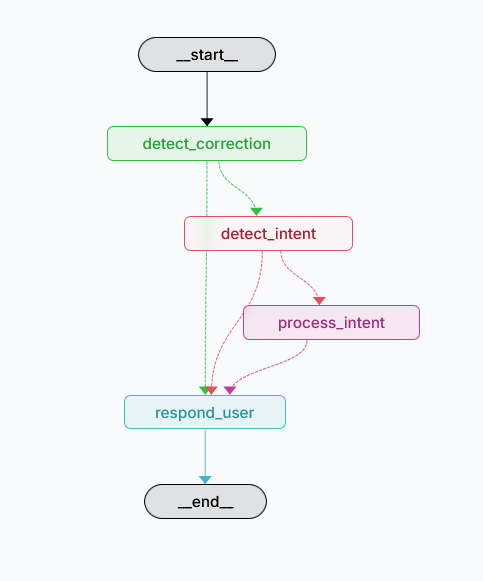
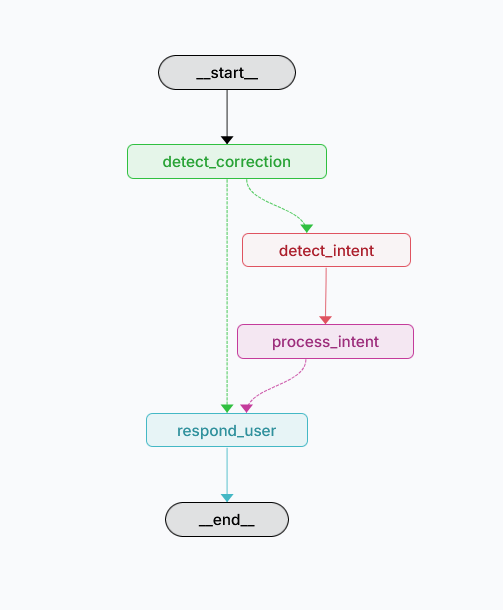
Included diagram, readme for correction pattern

Changed region(s): [[0.2174, 0.062, 0.8696, 0.8985], [0.3727, 0.3718, 0.4037, 0.4337], [0.8075, 0.4028, 0.8385, 0.4337]]

diff --git a/patterns/detect_correction/graph.py b/patterns/detect_correction/graph.py
@@ -15,12 +15,12 @@ from patterns.detect_correction.nodes import DetectCorrectionNodes
 def create_detect_correction_graph():
     """
     Creates the conversational graph for the Detect Correction pattern.
-    
-    Follows aibarber's pattern:
-    1. detect_correction: Detects user corrections/rejections
-    2. detect_intent: Determines intent (influenced by corrections)
-    3. process_intent: Processes the specific intent with corrections applied
-    4. respond_user: Sends response to user
+
+    Flow (optimized for rejection handling):
+    - Normal flow: START → detect_correction → detect_intent → process_intent → respond_user → END
+    - Rejection:   START → detect_correction → respond_user → END (early exit)
+
+    Key pattern: Corrections are detected FIRST and influence intent detection.
     """
     print("🏗 Building Detect Correction graph...")
 
@@ -57,22 +57,7 @@ def create_detect_correction_graph():
             print("➡ Normal/correction flow → detect_intent")
             return "detect_intent"
 
-    def route_after_intent(state: DetectCorrectionState) -> str:
-        """
-        Route after intent detection.
-        
-        - If rejection detected → go directly to respond_user (early exit)
-        - Otherwise → process the intent
-        """
-        intent = state.get("intent")
-        print(f"🔀 Routing after intent detection: {intent}")
-        
-        if intent == "reject":
-            print("🚫 Rejection intent → direct to respond_user")
-            return "respond_user"
-        else:
-            print("⚙ Normal intent → process_intent")
-            return "process_intent"
+    # NOTE: Rejection is handled in detect_correction → respond_user (no route_after_intent needed)
 
     def route_after_processing(state: DetectCorrectionState) -> str:
         """
@@ -100,15 +85,9 @@ def create_detect_correction_graph():
         }
     )
 
-    # 3. After intent detection, route based on intent type
-    workflow.add_conditional_edges(
-        "detect_intent",
-        route_after_intent,
-        {
-            "process_intent": "process_intent",
-            "respond_user": "respond_user"  # For rejection cases
-        }
-    )
+    # 3. After intent detection, always process the intent
+    # (Rejection cases are already handled and routed to respond_user from detect_correction)
+    workflow.add_edge("detect_intent", "process_intent")
 
     # 4. After processing intent, always respond
     workflow.add_conditional_edges(

diff --git a/patterns/detect_correction/nodes.py b/patterns/detect_correction/nodes.py
@@ -27,15 +27,16 @@ class DetectCorrectionNodes:
         # Correction patterns (English)
         self.correction_patterns = {
             "correction_dish": [
-                r"\b(no,?\s*|wait,?\s*|actually,?\s*)(i\s+want|i\s+prefer|better)\s+(.+)",
-                r"\b(actually|i\s+mean)\s+(.+)",
-                r"\b(change\s+to|i\s+prefer)\s+(.+)",
-                r"\b(no,?\s*better)\s+(.+)"
+                r"\b(no,?\s*|wait,?\s*|actually,?\s*)(i\s+want|i\s+prefer|better)\s+(pizza|burger|taco|salad)",
+                r"\b(actually|i\s+mean)\s+(a|an)?\s*(pizza|burger|taco|salad)",
+                r"\b(change\s+to|i\s+prefer)\s+(a|an)?\s*(pizza|burger|taco|salad)",
+                r"\b(no,?\s*better)\s+(a|an)?\s*(pizza|burger|taco|salad)"
             ],
             "correction_size": [
                 r"\b(no,?\s*)(large|medium|small)",
                 r"\b(better|actually)\s+(large|medium|small)",
-                r"\b(make\s+it)\s+(large|medium|small)"
+                r"\b(make\s+it)\s+(large|medium|small)",
+                r"\b(i\s+prefer)\s+(large|medium|small)"
             ],
             "rejection": [
                 r"\b(no,?\s*thanks|no\s+thank\s+you|cancel\s+everything)",
@@ -133,22 +134,14 @@ class DetectCorrectionNodes:
     def detect_intent_node(self, state: DetectCorrectionState) -> DetectCorrectionState:
         """
         Detects user intent, modified by any correction detected previously.
-        
+
         Following aibarber pattern: correction_detected influences how intent is determined.
+        NOTE: Rejection is handled in detect_correction_node and routed directly to respond_user.
         """
         print("🎯 Detecting intent...")
-        
+
         correction_detected = state.get("correction_detected")
-        
-        # Handle rejection first (early exit)
-        if correction_detected == "rejection":
-            print("🚫 Rejection detected, setting intent to 'reject'")
-            return {
-                **state,
-                "intent": "reject",
-                "answer": "No problem. Have a great day!"
-            }
-        
+
         if not state["messages"]:
             return {**state}
         

diff --git a/patterns/detect_correction/state.py b/patterns/detect_correction/state.py
@@ -1,7 +1,7 @@
 """
 State definition for the Detect Correction pattern.
 
-Educational pattern following aibarber's structure but with food orders domain.
+Educational pattern for food ordering with correction detection.
 Demonstrates correction detection with regex patterns (no LLM needed).
 """
 
@@ -14,7 +14,7 @@ class DetectCorrectionState(TypedDict):
     """
     State for the Detect Correction conversational pattern.
 
-    Follows aibarber's structure: detect_correction → detect_intent → process_intent → respond_user
+    Flow: detect_correction → detect_intent → process_intent → respond_user
     Uses food orders as educational domain with regex-based detection.
 
     Attributes:
@@ -36,7 +36,7 @@ class DetectCorrectionState(TypedDict):
     # Order processing (from process_intent node)
     current_order: Optional[Dict[str, Any]]  # {"dish": "pizza", "size": "large", "extras": ["cheese"]}
 
-    # Flow control (like aibarber/appointment_management)
+    # Flow control - tracks conversational state
     current_step: Optional[str]  # "awaiting_size", "awaiting_dish", "completed", None
 
     # Response handling (for respond_user node)

diff --git a/README.md b/README.md
@@ -2,9 +2,10 @@
 
 Educational repository showcasing conversational patterns built with LangGraph. Each pattern demonstrates core concepts for building agentic conversational systems with practical, real-world examples.
 
-Currently featuring two patterns:
+Currently featuring three patterns:
 - **Booking Pattern**: Guide users through booking appointments
 - **Modify Appointment Pattern**: Help users modify or cancel existing appointments
+- **Detect Correction Pattern**: Handle user corrections and intent changes in conversations
 
 ## 📚 Available Patterns
 
@@ -56,6 +57,50 @@ A conversational agent that helps users modify or cancel existing appointments. 
 - Confirmation handling for modifications
 - Cancellation processing
 
+### 3. Detect Correction Pattern
+A conversational agent that detects and handles user corrections in real-time. The agent identifies when users are correcting previous statements (changing dishes, sizes, rejecting offers) and adjusts the conversation flow accordingly. Uses regex-based detection for fast, reliable correction identification.
+
+<div align="center">
+  <img src="img/Correction_diagram.PNG" alt="Detect Correction Pattern Diagram" style="max-width: 100%; border-radius: 8px; margin-top: 20px;">
+</div>
+
+- **Code**: `patterns/detect_correction/`
+- **Domain**: Food ordering system
+
+**Key Concepts:**
+- Correction-first pattern detection
+- Regex-based intent classification (no LLM required)
+- Dynamic state management for multi-turn conversations
+- Context preservation during corrections
+- Early exit optimization for rejections
+- Fallback handling for incomplete information
+
+**Pattern Flow:**
+1. **Detect Correction** - Identifies if user is correcting previous statement
+2. **Detect Intent** - Determines user intention (order, modify, cancel, FAQ, finish)
+3. **Process Intent** - Executes business logic based on intent and corrections
+4. **Respond User** - Sends response and maintains conversation state
+
+**Example Conversations:**
+```
+User: "I want a large pizza"
+Bot: "Perfect, large pizza. Anything else?"
+User: "Actually, make it small"
+Bot: "Perfect, changed to small size. Your order: small pizza. Anything else?"
+```
+
+```
+User: "How much does it cost?"
+Bot: "Pizza: $15-25. You were ordering a pizza - what size?"
+```
+
+```
+User: "I want tacos"
+Bot: "What size would you like?"
+User: "No thanks, never mind"
+Bot: "No problem. Have a great day!"  ← Early exit (fast path)
+```
+
 ## 🚀 Getting Started
 
 ### Prerequisites
@@ -89,7 +134,7 @@ View and test all patterns in an interactive web interface:
 uv run langgraph dev
 ```
 
-Then open `http://localhost:8000` in your browser. You'll see both patterns available to test.
+Then open `http://localhost:8000` in your browser. You'll see all three patterns available to test.
 
 #### Option 2: Test Locally
 Run a specific pattern directly:
@@ -100,6 +145,9 @@ python patterns/booking/graph.py
 
 # Modify Appointment pattern
 python patterns/modify_appointment/graph.py
+
+# Detect Correction pattern
+python patterns/detect_correction/graph.py
 ```
 
 ## 🤝 Contributing
@@ -130,14 +178,20 @@ langgraph-conversational-patterns/
 ├── langgraph.json                    # LangGraph Studio configuration
 ├── img/                              # Visual assets
 │   ├── BookingDiagram.PNG            # Booking pattern architecture
-│   └── Modify_appointment_diagram.PNG # Modify appointment pattern architecture
+│   ├── Modify_appointment_diagram.PNG # Modify appointment pattern architecture
+│   └── Correction_diagram.PNG         # Detect correction pattern architecture
 └── patterns/
     ├── booking/                      # Booking pattern
     │   ├── __init__.py
     │   ├── state.py                  # State schema
     │   ├── nodes.py                  # Graph nodes
     │   └── graph.py                  # Graph definition
-    └── modify_appointment/            # Modify/Cancel appointments pattern
+    ├── modify_appointment/            # Modify/Cancel appointments pattern
+    │   ├── __init__.py
+    │   ├── state.py                  # State schema
+    │   ├── nodes.py                  # Graph nodes
+    │   └── graph.py                  # Graph definition
+    └── detect_correction/             # Detect correction pattern
         ├── __init__.py
         ├── state.py                  # State schema
         ├── nodes.py                  # Graph nodes
